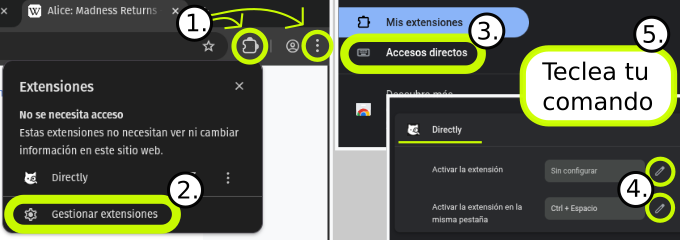
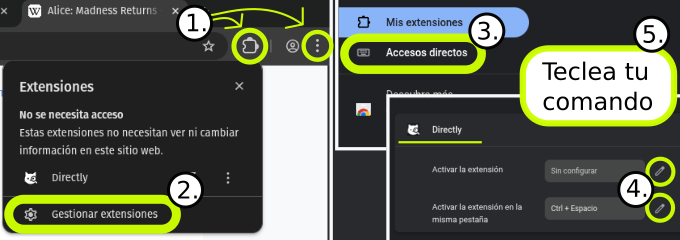
feature(doc): completa el contenido html de help y modifica estilos

Changed region(s): [[0.4632, 0.2042, 0.5868, 1.0], [0.4632, 0.0, 0.4941, 0.175]]

diff --git a/src/doc/help.html b/src/doc/help.html
@@ -16,7 +16,7 @@
 
   <main>
     <section aria-labelledby="section-1">
-      <details open>
+      <details>
         <summary>
           <h2 id="section-1">Atajos de teclado</h2>
         </summary>
@@ -136,7 +136,178 @@
     <section aria-labelledby="section-2">
       <details open>
         <summary>
-          <h2 id="section-2">¿?</h2>
+          <h2 id="section-2">Listado de webs activas</h2>
+        </summary>
+        <p>
+          Todas las acciones descritas en este punto se realizan desde la <a href="">Coniguración de Webs</a>.
+        </p>
+        <p>En la configuración existen 2 listas:</p>
+        <ul>
+          <li><strong>"Webs Activas"</strong>:
+            webs a las que podrás navegar cuando se use la extensión. <br>
+            <span class="comment">Desde este listado se podrá Eliminar/Desactivar y Modificar cada parametro de la web
+              seleccionada.</span>
+          </li>
+          <li><strong>"Webs Propuestas"</strong>:
+            webs que se presupone que pueden ser de utilidad para el usuario. <br>
+            <span class="comment">Desde este listado se podrán Activar o Desactivar las webs propuestas.</span>
+          </li>
+        </ul>
+
+        <article>
+          <h3>Eliminar/Desactivar una web</h3>
+          <p>
+            Se podrá eliminar una web activa desde el botón con el icono de Desmarcar/Eliminar en la lista de "webs
+            activas". <br>
+            También se podra eliminar desde el listado de "webs propuestas"
+            <span class="comment">(si
+              <a class="comment-text-ref" href="#note-providers-1">perteneciera<sup id="ref-providers-1">1</sup></a>
+              a ese listado)
+            </span>.
+          </p>
+          <img class="image" loading="lazy" src="/assets/help-providers-dark-1.webp"
+            alt="Muestra donde se encuentra el botón de eliminar en las listas 'webs activas' y 'webs propuestas'">
+        </article>
+
+
+
+
+
+
+
+        <article>
+          <h3>Modificar una web</h3>
+          <p>Solo se podrán modificar las webs que estén activas.</p>
+
+          <p>Pasos a seguir para modificar una web activa:</p>
+          <ol start="0">
+            <li>Ir a la lista de <a href="">"Webs activas"</a>.</li>
+            <li>Busca la web que quieras editar y pulsa su botón de editar.</li>
+            <li>Modifica a tu gusto.</li>
+            <li>Pulsa el botón de Aceptar o Cancelar, para guardar o descartar los cambios.</li>
+          </ol>
+
+          <img class="image" loading="lazy" src="/assets/help-providers-dark-2.webp"
+            alt="Muestra los pasos descrito anteriormente para modificar los datos de una web">
+
+          <p>Se podrá editar:</p>
+          <ul>
+            <li><strong>Título</strong>: Lo que verás cuando actives la extensión.</li>
+            <li><strong>URL</strong>:
+              Es la dirección web a la que navegaras, con los parametros de busquedas y la
+              <a class="normal-text-ref" href="#note-providers-2">palabra clave<sup id="ref-providers-2">2</sup></a>.
+              <p>Se debe de tener en cuenta que:</p>
+              <ul>
+                <li>Debe contener el protocolo "<strong>http://</strong>" o "<strong>https://</strong>"</li>
+                <li>
+                  Debe contener como mínimo una vez la
+                  <a class="normal-text-ref" href="#note-providers-2">palabra clave<sup
+                      id="ref-providers-2">2</sup></a>.
+                </li>
+                <li><strong>No pueden haber dos URL idénticas en el listado de webs activas</strong>.</li>
+                <li>Las modificaciones de las URL no afectan a las URL del listado "webs propuestas".</li>
+              </ul>
+            </li>
+          </ul>
+        </article>
+
+
+
+
+
+
+
+
+
+        <article>
+          <h3>Añadir una web a "webs activas"</h3>
+
+          <p>Existen 2 formas (+ 1 en desarrollo) de añadir una web al listado de webs activas:</p>
+          <ol>
+            <li>
+              <p>Activar una de las webs propuestas que SÍ te interese.</p>
+              <p>Para ello hay que ir a la lista de <a href="">Webs propuestas</a> y desde ahí activarla pulsando el
+                botón con el icono de añadir/favoritos.</p>
+              <img class="image" loading="lazy" src="" alt="">
+            </li>
+            <li>
+              <p>Añadir una web que NO exista en la lista de "Webs propuestas" modificando la URL de una web
+                activa:</p>
+
+              <ol start="0">
+                <li>Ir a la web que te interesa añadir.</li>
+                <li>
+                  <p>
+                    Buscar en su navegador interno la <a class="normal-text-ref" href="#note-providers-2">palabra
+                      clave<sup id="ref-providers-2">2</sup></a>: --DirectlyExtension--
+                  </p>
+                  <p class="comment up">Asegurate de:</p>
+                  <ol class="comment up">
+                    <li>Que no tienes filtros aplicados que luego en la busqueda no desees.</li>
+                    <li>Que solo has buscado "--DirectlyExtension--"</li>
+                  </ol>
+                </li>
+                <li>
+                  Revisa la nueva URL de la página:
+                  <ul>
+                    <li>SÍ aparece "DirectlyExtension" o "--DirectlyExtension--": copia la URL completa.</li>
+                    <li>NO aparece "DirectlyExtension" o "--DirectlyExtension--": esa web no es apta para usar con esta
+                      extensión.</li>
+                  </ul>
+                </li>
+                <li>Ir a la lista de <a href="">Webs propuestas</a> y activar una web cualquiera de la lista.</li>
+                <li>Ir a la lista de Webs activas y darle al botón de editar <span class="comment">(de la web que
+                    acabamos de activar)</span>.</li>
+                <li>Sustituir su URL con la que hemos copiado anteriormente y aceptar los cambios.</li>
+              </ol>
+              <img class="image" loading="lazy" src="" alt="">
+            </li>
+            <li>
+              <p>Añadir una web que NO exista en la lista de "Webs propuestas" desde el botón "añadir nueva url"</p>
+              <p class="comment up">Esta es una funcionalidad que está en desarrollo, por lo que aún no está disponible.
+              </p>
+            </li>
+            </ul>
+        </article>
+
+        <article>
+          <h3>Cambiar el orden de las webs activas</h3>
+          <p>En esta versión Beta no se encuentra esta funcionalidad, se añadirá más adelante.</p>
+          <p>La unica forma para re-ordenar la lista es eliminando y añadiendo las webs en el orden que interese.</p>
+        </article>
+
+        <footer class="notes" aria-label="Notas a pie de página">
+          <ul>
+            <li>
+              <p>
+                <a class="note" id="note-providers-1" href="#ref-providers-1">
+                  1. Pertenecia a "webs propuestas":
+                </a>
+              <p>
+                Lo que hace que una web activada pertenezca o no a la lista de "webs propuestas" es su URL. <br>
+                No importa la modificación de su título. <br>
+                No importa si se a añadido la nueva web modificando la URL de otra web activa o propuesta.
+              </p>
+            </li>
+
+            <li>
+              <p>
+                <a class="note" id="note-providers-2" href="#ref-providers-2">2. Palabra clave:</a>
+                --DirectlyExtension--
+              <p>
+                Es lo que será sustituido por la consulta cuando se use la extensión. <br>
+                Un requisto fundamental para el manejo de la extensión.
+              </p>
+            </li>
+          </ul>
+        </footer>
+      </details>
+    </section>
+
+    <section aria-labelledby="section-3">
+      <details>
+        <summary>
+          <h2 id="section-3">Uso de la extensión</h2>
         </summary>
 
         <article>
@@ -145,6 +316,17 @@
       </details>
     </section>
 
+    <section aria-labelledby="section-4">
+      <details>
+        <summary>
+          <h2 id="section-4">¿?</h2>
+        </summary>
+
+        <article>
+          <h3>¿?</h3>
+        </article>
+      </details>
+    </section>
   </main>
 </body>
 

diff --git a/src/doc/style.css b/src/doc/style.css
@@ -222,9 +222,10 @@ article {
   block-size: 260px;
   inline-size: 700px;
 
-  padding: 10px;
-  background-color: var(--config-color-text_1);
-  border-radius: 8px;
-
+  border-radius: 4px;
+  border: 2px solid var(--config-color-text_1);
+  margin-block: 0.8rem 1.2rem;
   margin-inline: auto;
+
+  box-shadow: 0 0 8px 1px var(--config-color-text_2);
 }
